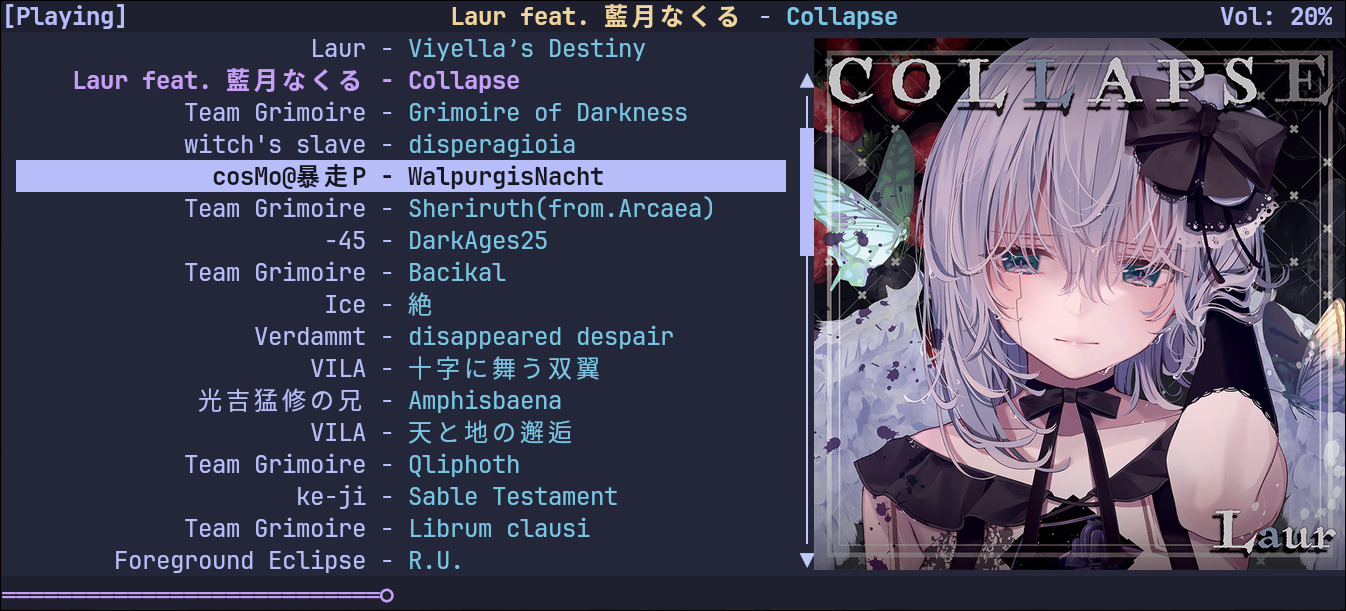
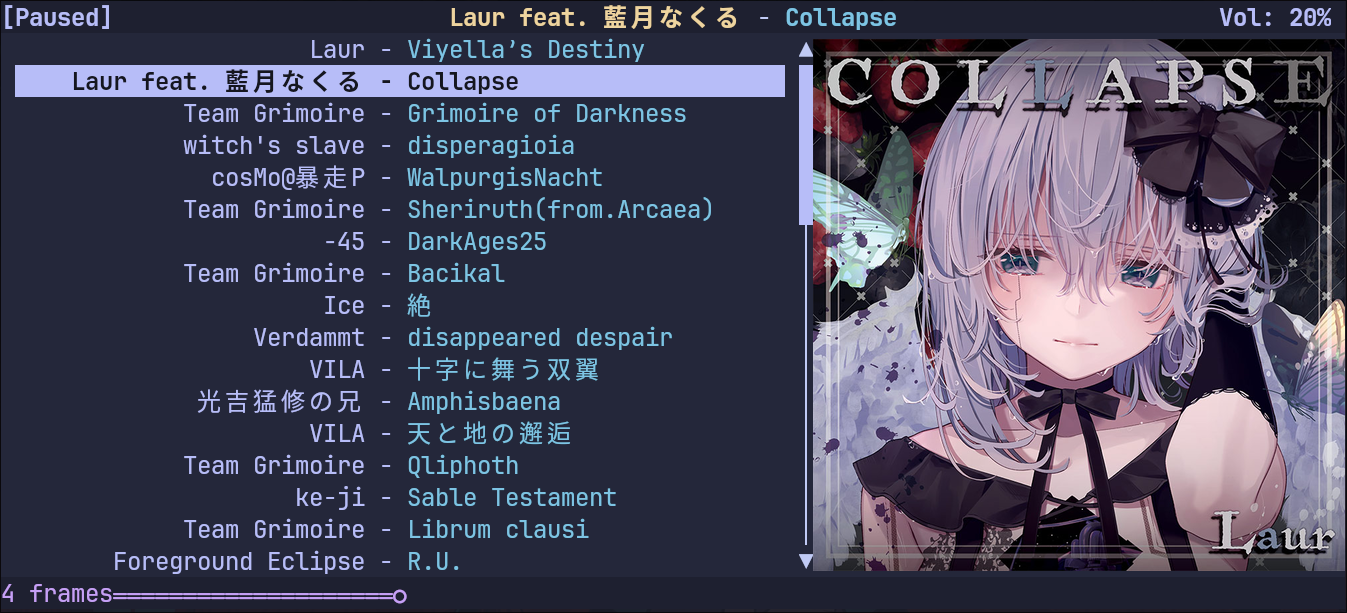
fix: scrollbar size on queue screen with no borders docs: update images

Changed region(s): [[0.0, 0.0, 1.0, 0.9329], [0.0, 0.9329, 0.312, 0.9951], [0.0, 0.0, 0.0936, 0.0622]]

diff --git a/src/ui/screens/queue.rs b/src/ui/screens/queue.rs
@@ -168,8 +168,10 @@ impl Screen for QueueScreen {
 
         frame.render_stateful_widget(table, queue_section, self.scrolling_state.as_render_state_ref());
 
-        queue_section.y = queue_section.y.saturating_add(1);
-        queue_section.height = queue_section.height.saturating_sub(1);
+        if config.theme.show_song_table_header {
+            queue_section.y = queue_section.y.saturating_add(1);
+            queue_section.height = queue_section.height.saturating_sub(1);
+        }
         frame.render_stateful_widget(
             config.as_styled_scrollbar(),
             queue_section,
